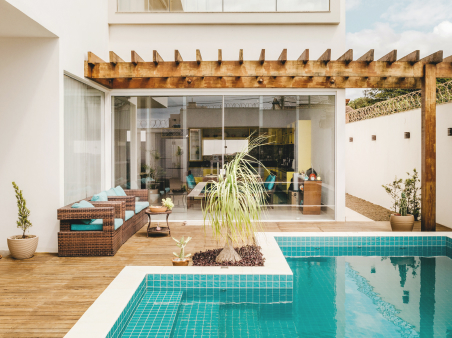
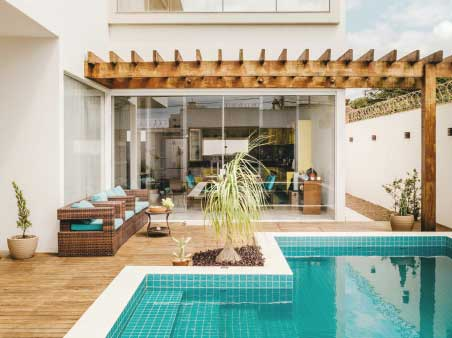
fix: minify images

diff --git a/src/components/offer/Card.js b/src/components/offer/Card.js
@@ -5,7 +5,7 @@ fetch("./src/components/offer/offerSection.html")
   .then((content) => {
     document.querySelector("#offer__section").innerHTML = content;
   })
-  .then(() => {
+  .then(async () => {
     const cardContainer = document.querySelector("#card-container");
 
     const createCard = (props, node) => {
@@ -41,6 +41,7 @@ fetch("./src/components/offer/offerSection.html")
 
     const card = (props) => {
       const { title, description } = props;
+      if (!props) return;
 
       return `
     <div class="flex flex-col  justify-between gap-[32px] md:gap-0 ">
@@ -50,7 +51,10 @@ fetch("./src/components/offer/offerSection.html")
    
         h-[44px] w-[44px]'>
         
-        <img src="./src/assets/${props.image}.png" class="w-full h-full object-contain" alt=${props.image} />
+        <img 
+      src="https://raw.githubusercontent.com/simonkawaii/adrespect-design-site/main/src/assets/${props.image}.png"
+        
+        class="w-full h-full object-contain" alt=${props.image} />
         </div>`
         : ""
     }

diff --git a/src/components/header/heroSection.html b/src/components/header/heroSection.html
@@ -53,7 +53,7 @@
         <div class="swiper-slide">
           <img
             class="w-full h-full object-cover"
-            src="./src/assets/herojpg.jpg"
+            src="https://raw.githubusercontent.com/simonkawaii/adrespect-design-site/main/src/assets/herojpg.jpg"
             alt="herojpg"
             srcset=""
           />
@@ -61,7 +61,7 @@
         <div class="swiper-slide">
           <img
             class="w-full h-full object-cover"
-            src="./src/assets/herojpg.jpg"
+            src="https://raw.githubusercontent.com/simonkawaii/adrespect-design-site/main/src/assets/herojpg.jpg"
             alt="herojpg"
             srcset=""
           />

diff --git a/src/components/masonry/ImageGallery.js b/src/components/masonry/ImageGallery.js
@@ -77,11 +77,15 @@ const mountMasonryGallery = (arr) => {
       : galleryNextButton.classList.remove("hidden");
   });
   const createImg = (props) => {
+    if (!props) return;
     return `
   <div class="swiper-slide w-full h-full m-auto cursor-grab z-[9999] active:cursor-grabbing">
     <img alt="${props.image}" class='object-contain
     aspect-[9 / 16]
-     w-full h-full ' src='./src/assets/masonry/${props.image}' />
+     w-full h-full ' 
+     src="https://raw.githubusercontent.com/simonkawaii/adrespect-design-site/main/src/assets/masonry/${props.image}"
+     
+     />
      </div> 
      `;
   };

diff --git a/src/components/masonry/CreateMasonryGrid.js b/src/components/masonry/CreateMasonryGrid.js
@@ -18,7 +18,9 @@ const mountMasonryGrid = () => {
 
     return `
 <a tabindex='0'  id='${id}' class='macy-item overflow-hidden'>
-<img alt="${image}" class='object-cover group-hover:scale-110 w-full h-full ' src='./src/assets/masonry/${props.image}' />
+<img alt="${image}" class='object-cover group-hover:scale-110 w-full h-full '
+src="https://raw.githubusercontent.com/simonkawaii/adrespect-design-site/main/src/assets/masonry/${props.image}"
+
 </a>
 `;
   };

diff --git a/index.html b/index.html
@@ -191,6 +191,14 @@
         </div>
       </div>
     </section>
+    <!-- <div class="w-full h-full">
+      <img
+        class="w-full h-full object-cover"
+        src="https://raw.githubusercontent.com/simonkawaii/adrespect-design-site/main/src/assets/masonry/Photo-1.jpg"
+        alt=""
+      />
+    </div> -->
+
     <div
       id="page--loader"
       class="h-screen w-screen z-[9999] max-w-[100%] duration-300 fixed bg-white top-0 left-0"

diff --git a/src/components/about/aboutBrandSection.html b/src/components/about/aboutBrandSection.html
@@ -30,7 +30,7 @@
   <div class="absolute left-0 top-0 w-full h-full">
     <img
       class="w-full h-full object-cover"
-      src="./src/assets/sec-2-photo.jpg"
+      src="https://raw.githubusercontent.com/simonkawaii/adrespect-design-site/main/src/assets/sec-2-photo.jpg"
       alt=""
       srcset=""
     />
